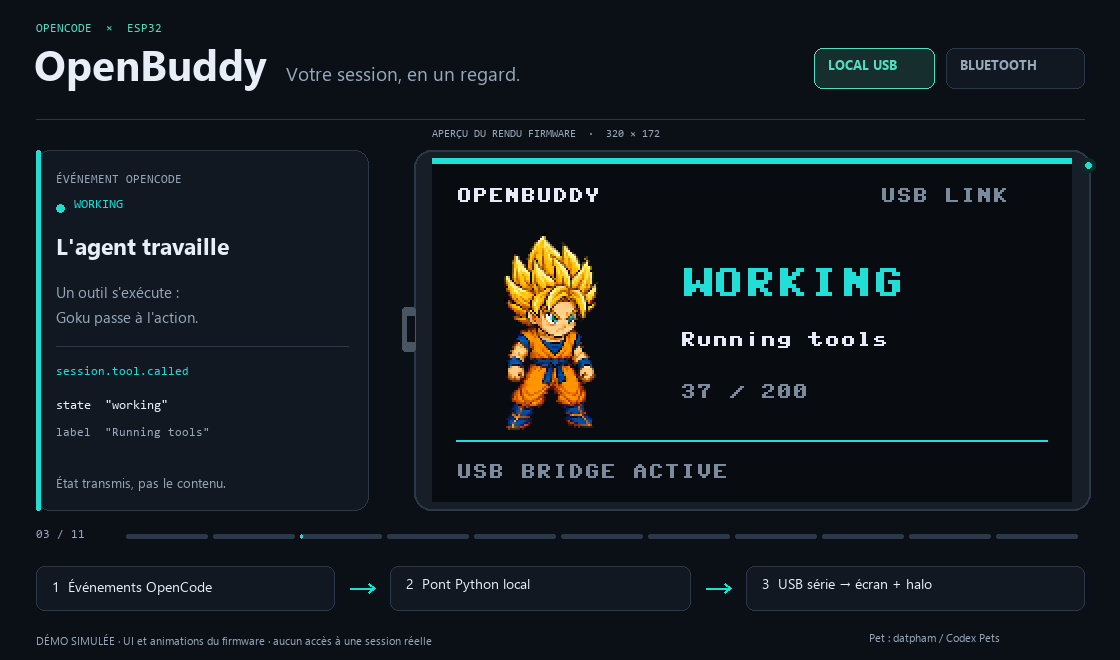
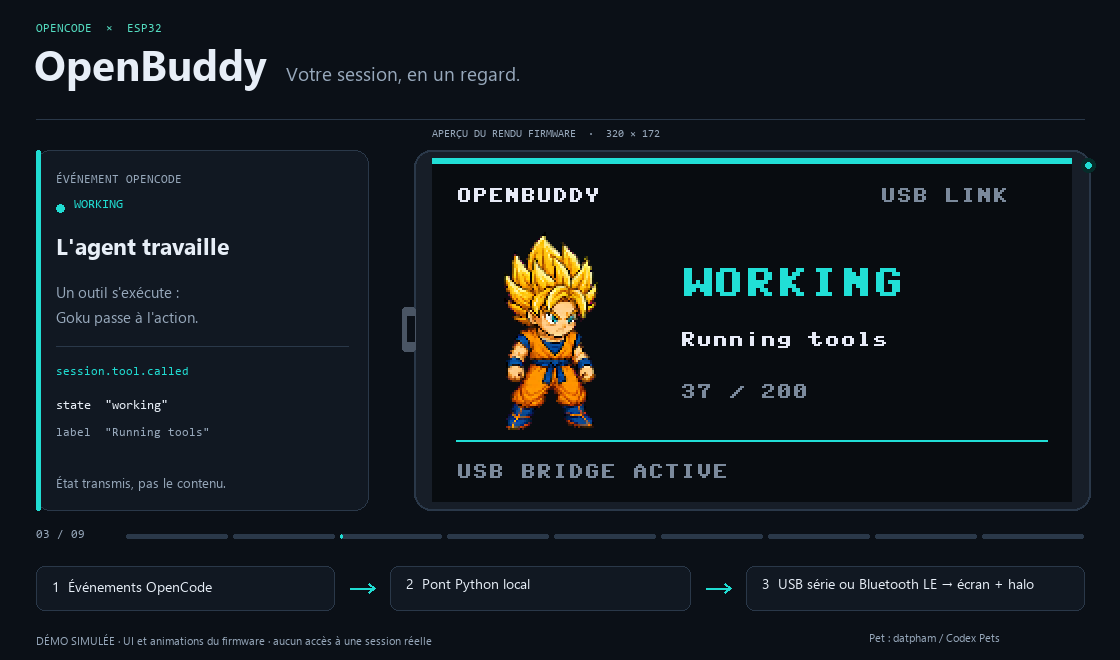
Refresh quota on Done and group thousands; single-pass README demo

Changed region(s): [[0.7188, 0.0606, 0.9375, 0.1515], [0.75, 0.8788, 0.9375, 0.9091]]

diff --git a/tools/build_readme_demo.py b/tools/build_readme_demo.py
@@ -40,33 +40,28 @@ class Scene:
     description: str
     event: str
     label: str
-    mode: str
     duration: int
 
 
 SCENES = (
     Scene("idle", "Prêt à démarrer", "Le compagnon attend l'activité\nd'une session OpenCode.",
-          "Aucune exécution active", "OpenCode ready", "usb", 1600),
+          "Aucune exécution active", "OpenCode ready", 1600),
     Scene("thinking", "L'agent réfléchit", "L'activité de raisonnement\nfait évoluer l'état du compagnon.",
-          "session.reasoning.started", "OpenCode active", "usb", 2600),
+          "session.reasoning.started", "OpenCode active", 2600),
     Scene("working", "L'agent travaille", "Un outil s'exécute :\nGoku passe à l'action.",
-          "session.tool.called", "Running tools", "usb", 2000),
+          "session.tool.called", "Running tools", 2000),
     Scene("permission", "À vous de valider", "Une autorisation est en attente.\nLa validation reste dans OpenCode.",
-          "permission.asked", "1 approval(s) pending", "usb", 2300),
+          "permission.asked", "1 approval(s) pending", 2300),
     Scene("question", "Une réponse attendue", "OpenCode pose une question.\nLe pet et le halo vous alertent.",
-          "form.created", "1 response(s) pending", "usb", 2300),
+          "form.created", "1 response(s) pending", 2300),
     Scene("success", "Réponse terminée", "L'exécution a réussi.\nGoku fête la fin de la tâche.",
-          "session.execution.succeeded", "Response ready", "usb", 1800),
-    Scene("working", "Même synchro, sans fil", "Le transport change,\nles états restent identiques.",
-          "session.tool.called", "Running tools", "ble", 1600),
+          "session.execution.succeeded", "Response ready", 1800),
     Scene("error", "Une erreur survient", "L'exécution a échoué.\nLes détails restent dans OpenCode.",
-          "session.execution.failed", "Execution failed", "ble", 1800),
+          "session.execution.failed", "Execution failed", 1800),
     Scene("retry", "Nouvelle tentative", "OpenCode attend avant de réessayer.\nLe compagnon indique RETRY.",
-          "session.retry.scheduled", "Retry scheduled", "ble", 4200),
-    Scene("success", "C'est reparti !", "La nouvelle exécution a réussi.\nLe même pet, en USB ou Bluetooth.",
-          "session.execution.succeeded", "Response ready", "ble", 1800),
+          "session.retry.scheduled", "Retry scheduled", 4200),
     Scene("offline", "Plus de source active", "Sans heartbeat, retour OFFLINE\naprès 15 s (transition illustrée).",
-          "Expiration du heartbeat", "", "ble", 1800),
+          "Expiration du heartbeat", "", 1800),
 )
 
 
@@ -177,21 +172,12 @@ def text(draw, xy, value, size=16, color=WHITE, bold=False, mono=False):
     draw.text(xy, value, font=font(size, bold, mono), fill=color, anchor="lt")
 
 
-def pill(draw, box, label, active, accent):
-    draw.rounded_rectangle(box, radius=8, fill=(22, 46, 45) if active else PANEL,
-                           outline=accent if active else BORDER, width=1)
-    text(draw, (box[0] + 14, box[1] + 12), label, 13,
-         accent if active else MUTED, bold=True)
-
-
 def compose(screen, scene, index, color, progress=0, total=len(SCENES)):
     image = Image.new("RGB", SIZE, BACKGROUND)
     draw = ImageDraw.Draw(image)
     text(draw, (36, 24), "OPENCODE  ×  ESP32", 12, TEAL, mono=True)
     text(draw, (34, 49), "OpenBuddy", 42, bold=True)
     text(draw, (286, 67), "Votre session, en un regard.", 19, MUTED)
-    pill(draw, (814, 48, 934, 88), "LOCAL USB", scene.mode == "usb", TEAL)
-    pill(draw, (946, 48, 1084, 88), "BLUETOOTH", scene.mode == "ble", TEAL)
     draw.line((36, 119, 1084, 119), fill=BORDER)
 
     draw.rounded_rectangle((36, 150, 368, 510), radius=14, fill=PANEL, outline=BORDER)
@@ -227,7 +213,7 @@ def compose(screen, scene, index, color, progress=0, total=len(SCENES)):
             draw.rounded_rectangle((x, 534, x + max(2, int(width * progress)), 538), radius=2, fill=color)
 
     nodes = ((36, 566, 334, 610), (390, 566, 690, 610), (746, 566, 1084, 610))
-    labels = ("1  Événements OpenCode", "2  Pont Python local", "3  " + ("USB série → écran + halo" if scene.mode == "usb" else "Bluetooth LE → écran + halo"))
+    labels = ("1  Événements OpenCode", "2  Pont Python local", "3  USB série ou Bluetooth LE → écran + halo")
     for box, label in zip(nodes, labels):
         draw.rounded_rectangle(box, radius=8, fill=PANEL, outline=BORDER)
         text(draw, (box[0] + 16, box[1] + 13), label, 14, WHITE)
@@ -265,7 +251,7 @@ def generate(pet_dir, output, poster, scenes=SCENES):
         try:
             # Use one shared palette, trained on every state, to avoid color flicker.
             for index, scene in enumerate(scenes):
-                buddy.state, buddy.label, buddy.kind = scene.state, scene.label, scene.mode
+                buddy.state, buddy.label, buddy.kind = scene.state, scene.label, "usb"
                 buddy.online = lambda _now, state=scene.state: state != "offline"
                 ui.draw(buddy, now)
                 samples.append(compose(display.image, scene, index, ui_module.COLORS[scene.state], 0.5, len(scenes)))
@@ -278,7 +264,7 @@ def generate(pet_dir, output, poster, scenes=SCENES):
             player.clip = None
             now = 0
             for index, scene in enumerate(scenes):
-                buddy.state, buddy.label, buddy.kind = scene.state, scene.label, scene.mode
+                buddy.state, buddy.label, buddy.kind = scene.state, scene.label, "usb"
                 buddy.online = lambda _now, state=scene.state: state != "offline"
                 for elapsed in range(0, scene.duration, STEP_MS):
                     # Preserve the firmware's 20ms update cadence and clip timings.

diff --git a/pc/quota.py b/pc/quota.py
@@ -8,9 +8,14 @@ import shlex
 import shutil
 import subprocess
 import sys
+import time
+
+from c6lcd.buddy_protocol import STATES
 
 MIN_REFRESH_SECONDS = 60
-DEFAULT_REFRESH_SECONDS = 300
+DEFAULT_REFRESH_SECONDS = 600
+DEFAULT_REFRESH_ON = ("success",)
+MIN_FETCH_GAP_SECONDS = 10  # Several state changes in a row share one command run.
 COMMAND_TIMEOUT = 20
 OUTPUT_LIMIT = 65536
 TEXT_LIMIT = 24
@@ -36,14 +41,16 @@ def number(value, field):
     if type(value) not in (int, float):
         raise ValueError("Field is not a number: " + field)
     if value == int(value):
-        return str(int(value))
-    return ("%.1f" % value).rstrip("0").rstrip(".")
+        text = "{:,}".format(int(value))
+    else:
+        text = "{:,.1f}".format(value).rstrip("0").rstrip(".")
+    return text.replace(",", " ")
 
 
 class QuotaConfig:
-    def __init__(self, command, used, limit, label, refresh):
+    def __init__(self, command, used, limit, label, refresh, refresh_on=DEFAULT_REFRESH_ON):
         self.command, self.used, self.limit = command, used, limit
-        self.label, self.refresh = label, refresh
+        self.label, self.refresh, self.refresh_on = label, refresh, tuple(refresh_on)
 
 
 def load_config(path):
@@ -70,7 +77,10 @@ def load_config(path):
     refresh = data.get("refresh_seconds", DEFAULT_REFRESH_SECONDS)
     if type(refresh) not in (int, float) or refresh < MIN_REFRESH_SECONDS:
         raise ValueError("refresh_seconds must be at least %d" % MIN_REFRESH_SECONDS)
-    return QuotaConfig(command, used, limit, label, refresh)
+    refresh_on = data.get("refresh_on", list(DEFAULT_REFRESH_ON))
+    if (not isinstance(refresh_on, list) or not all(item in STATES for item in refresh_on)):
+        raise ValueError("refresh_on must be a list of OpenBuddy states")
+    return QuotaConfig(command, used, limit, label, refresh, refresh_on)
 
 
 def format_quota(output, config):
@@ -99,26 +109,50 @@ def fetch(config):
 class QuotaMonitor:
     """Keeps the last good text; a failing command never disturbs the bridge."""
 
-    def __init__(self, path=None, fetcher=fetch):
+    def __init__(self, path=None, fetcher=fetch, min_gap=MIN_FETCH_GAP_SECONDS):
         self.path = path or config_path()
         self.fetcher = fetcher
+        self.min_gap = min_gap
         self.text = ""
         self.error = None
         self.config = None
+        self.wake = asyncio.Event()
+        self.previous_state = None
+
+    def observe(self, state):
+        """Refresh early when the agent enters one of the configured states."""
+        entered = state is not None and state != self.previous_state
+        self.previous_state = state
+        refresh_on = self.config.refresh_on if self.config is not None else DEFAULT_REFRESH_ON
+        if entered and state in refresh_on:
+            self.wake.set()
+
+    async def refresh(self):
+        """Returns the delay before the next periodic refresh."""
+        delay = DEFAULT_REFRESH_SECONDS
+        try:
+            self.config = await asyncio.to_thread(load_config, self.path)
+            delay = self.config.refresh
+            self.text = await asyncio.to_thread(self.fetcher, self.config)
+            self.error = None
+        except FileNotFoundError:
+            self.text, self.error = "", None  # Quota display is optional.
+        except (OSError, ValueError, KeyError, subprocess.SubprocessError) as error:
+            # json.JSONDecodeError is a ValueError.
+            if self.error != str(error):
+                print("Quota unavailable:", type(error).__name__, "-", error, flush=True)
+            self.error = str(error)
+        return delay
 
     async def run(self):
         while True:
-            delay = DEFAULT_REFRESH_SECONDS
+            self.wake.clear()
+            started = time.monotonic()
+            delay = await self.refresh()
             try:
-                self.config = await asyncio.to_thread(load_config, self.path)
-                delay = self.config.refresh
-                self.text = await asyncio.to_thread(self.fetcher, self.config)
-                self.error = None
-            except FileNotFoundError:
-                self.text, self.error = "", None  # Quota display is optional.
-            except (OSError, ValueError, KeyError, subprocess.SubprocessError) as error:
-                # json.JSONDecodeError is a ValueError.
-                if self.error != str(error):
-                    print("Quota unavailable:", type(error).__name__, "-", error, flush=True)
-                self.error = str(error)
-            await asyncio.sleep(delay)
+                await asyncio.wait_for(self.wake.wait(), delay)
+            except TimeoutError:
+                continue
+            remaining = self.min_gap - (time.monotonic() - started)
+            if remaining > 0:
+                await asyncio.sleep(remaining)

diff --git a/tests/test_quota.py b/tests/test_quota.py
@@ -33,6 +33,14 @@ class QuotaTests(unittest.TestCase):
         self.assertEqual(quota.format_quota(json.dumps(dict(COPILOT, credits_used=37.5)), config), "37.5 / 200")
         self.assertEqual(quota.format_quota(json.dumps(dict(COPILOT, credits_used=12.0)), config), "12 / 200")
 
+    def test_thousands_are_separated_by_a_space(self):
+        config = quota.load_config(write_config(self.root))
+        output = json.dumps(dict(COPILOT, credits_used=10000, entitlement=15000))
+        self.assertEqual(quota.format_quota(output, config), "10 000 / 15 000")
+        output = json.dumps(dict(COPILOT, credits_used=1234.5, entitlement=1000000))
+        self.assertEqual(quota.format_quota(output, config), "1 234.5 / 1 000 000")
+        self.assertEqual(quota.format_quota(json.dumps(dict(COPILOT, credits_used=999)), config), "999 / 200")
+
     def test_label_is_optional_prefix(self):
         config = quota.load_config(write_config(self.root, label="Copilot"))
         self.assertEqual(quota.format_quota(json.dumps(COPILOT), config), "Copilot 0 / 200")
@@ -99,6 +107,68 @@ class QuotaTests(unittest.TestCase):
             await asyncio.gather(task, return_exceptions=True)
 
         asyncio.run(scenario())
+
+    def test_entering_a_configured_state_refreshes_before_the_period(self):
+        async def scenario():
+            path = write_config(self.root)  # 300 s period: only a state change can refresh in time
+            calls = []
+
+            def fetcher(_config):
+                calls.append(1)
+                return "%d / 200" % len(calls)
+
+            monitor = quota.QuotaMonitor(path, fetcher, min_gap=0)
+            task = asyncio.create_task(monitor.run())
+            await asyncio.sleep(0.1)
+            self.assertEqual(len(calls), 1)
+            for state in ("working", "thinking", None, "idle"):
+                monitor.observe(state)
+            await asyncio.sleep(0.1)
+            self.assertEqual(len(calls), 1)
+            monitor.observe("success")
+            monitor.observe("success")  # still the same state: no second refresh
+            await asyncio.sleep(0.1)
+            self.assertEqual((len(calls), monitor.text), (2, "2 / 200"))
+            task.cancel()
+            await asyncio.gather(task, return_exceptions=True)
+
+        asyncio.run(scenario())
+
+    def test_refreshes_closer_than_the_minimum_gap_are_postponed(self):
+        async def scenario():
+            calls = []
+            monitor = quota.QuotaMonitor(write_config(self.root), lambda _config: calls.append(1) or "x", min_gap=0.3)
+            task = asyncio.create_task(monitor.run())
+            await asyncio.sleep(0.1)
+            monitor.observe("success")
+            await asyncio.sleep(0.1)
+            self.assertEqual(len(calls), 1)
+            await asyncio.sleep(0.4)
+            self.assertEqual(len(calls), 2)
+            task.cancel()
+            await asyncio.gather(task, return_exceptions=True)
+
+        asyncio.run(scenario())
+
+    def test_refresh_states_are_configurable_and_validated(self):
+        path = write_config(self.root)
+        self.assertEqual(quota.load_config(path).refresh_on, ("success",))
+        data = json.loads(path.read_text())
+        data["refresh_on"] = ["success", "error"]
+        path.write_text(json.dumps(data))
+        self.assertEqual(quota.load_config(path).refresh_on, ("success", "error"))
+        for value in (["done"], "success", [1]):
+            data["refresh_on"] = value
+            path.write_text(json.dumps(data))
+            with self.subTest(value=value), self.assertRaises(ValueError):
+                quota.load_config(path)
+
+    def test_default_period_is_ten_minutes(self):
+        path = write_config(self.root)
+        data = json.loads(path.read_text())
+        del data["refresh_seconds"]
+        path.write_text(json.dumps(data))
+        self.assertEqual(quota.load_config(path).refresh, 600)
 
     def test_missing_configuration_is_silent_and_disables_the_display(self):
         async def scenario():

diff --git a/tests/test_readme_demo.py b/tests/test_readme_demo.py
@@ -29,9 +29,10 @@ class DemoTests(unittest.TestCase):
         self.assertEqual(display.image.getpixel((3, 5)), (255, 255, 255))
         self.assertEqual(display.image.getpixel((0, 0)), (0, 0, 0))
 
-    def test_storyboard_covers_all_states_and_both_transports(self):
-        self.assertEqual({scene.state for scene in SCENES}, set(STATES) | {"offline"})
-        self.assertEqual({scene.mode for scene in SCENES}, {"usb", "ble"})
+    def test_storyboard_shows_each_screen_exactly_once(self):
+        states = [scene.state for scene in SCENES]
+        self.assertEqual(set(states), set(STATES) | {"offline"})
+        self.assertEqual(len(states), len(set(states)))
         self.assertTrue(all(scene.duration % 100 == 0 for scene in SCENES))
 
     def test_missing_pack_is_not_silently_replaced_by_a_fake_pet(self):
@@ -54,8 +55,8 @@ class DemoTests(unittest.TestCase):
                                         "frame_ms": 100, "bytes": 16}},
             }
             (pet / "manifest.json").write_text(json.dumps(manifest), encoding="utf-8")
-            scenes = (Scene("idle", "Ready", "A test", "idle", "OpenCode ready", "usb", 300),
-                      Scene("question", "Question", "A test", "form.created", "Waiting", "ble", 300))
+            scenes = (Scene("idle", "Ready", "A test", "idle", "OpenCode ready", 300),
+                      Scene("question", "Question", "A test", "form.created", "Waiting", 300))
             gif, poster = root / "demo.gif", root / "poster.png"
             generate(pet, gif, poster, scenes=scenes)
             with Image.open(gif) as animation:

diff --git a/pc/opencode.py b/pc/opencode.py
@@ -240,6 +240,7 @@ class Bridge:
             view = self.registry.current()
             self.notifier.observe(view["state"] if view is not None else None)
             self.desktop_notifier.observe(view["state"] if view is not None else None)
+            self.quota.observe(view["state"] if view is not None else None)
             await asyncio.sleep(0.25)
 
     async def ble_worker(self):

diff --git a/AGENTS.md b/AGENTS.md
@@ -24,7 +24,7 @@ Lire d'abord `docs/hardware.md` (matériel, brochage, pièges), `docs/opencode-e
 - `pc/opencode.py` : pont événements → carte, démarrage `python -m pc.opencode`, diagnostic/arrêt avec `status`/`stop`.
 - Mode USB : `python -m pc.opencode --serial auto` (ou un port explicite), diagnostic `python -m pc.buddy --serial auto status`. Un seul outil sur le port série, DTR/RTS bas. Arrêter le pont avant `pc.deploy`, `pc.pet` ou `mpremote`.
 - `integration/openbuddy/dist/` : plugin v2 autonome généré, hors autochargement ; sources dans `integration/openbuddy/src/`, métadonnées/licence dans `assets/`, build `npm --prefix integration/openbuddy run build`. Ne pas éditer `index.js` à la main. Installation globale avec `python -m pc.install_plugin`.
-- `pc/quota.py` : texte `utilisé / limite` du fournisseur (ex. `0 / 200`) via une commande configurée dans `%APPDATA%\openbuddy\quota.json`, envoyé au firmware dans le champ optionnel `info` de la commande `state` et affiché à la place de `PET / MICROSD` ; `--no-quota` ou `--quota-config`. Les tests ne doivent jamais lancer la vraie commande (voir `setUpModule` de `tests/test_opencode_bridge.py`).
+- `pc/quota.py` : texte `utilisé / limite` du fournisseur (ex. `0 / 200`) via une commande configurée dans `%APPDATA%\openbuddy\quota.json`, envoyé au firmware dans le champ optionnel `info` de la commande `state` et affiché à la place de `PET / MICROSD` ; rafraîchi toutes les 600 s et à l'entrée dans les états de `refresh_on` (`success` par défaut, 10 s minimum entre deux appels) ; `--no-quota` ou `--quota-config`. Les tests ne doivent jamais lancer la vraie commande (voir `setUpModule` de `tests/test_opencode_bridge.py`).
 - `pc/notifications.py` : sons système Windows, option `--mute`. `pc/toasts.py` : notifications Windows WinRT natives, texte générique, toast silencieux, option `--no-notifications`, aucun bouton de validation.
 - `pc/install_plugin.py` : installateur du plugin (global par défaut, projet en option), sauvegarde avant `--replace`, aucun changement des configs JSON.
 - `tools/package_workplace.py` : ZIP de transfert par liste blanche, wheels hors ligne ; README du kit dans `distribution/workplace/README.md`, variante USB avec `--variant usb` et `README-usb.md`.

diff --git a/docs/opencode-events.md b/docs/opencode-events.md
@@ -121,7 +121,8 @@ modifiable avec `--quota-config FICHIER`. `--no-quota` désactive la commande.
 ```json
 {
   "provider": "github-copilot",
-  "refresh_seconds": 300,
+  "refresh_seconds": 600,
+  "refresh_on": ["success"],
   "providers": {
     "github-copilot": {
       "command": ["gh", "api", "copilot_internal/user", "--jq", ".quota_snapshots.premium_interactions"],
@@ -137,10 +138,17 @@ modifiable avec `--quota-config FICHIER`. `--no-quota` désactive la commande.
 - `command` est une liste, ou une chaîne découpée comme dans un shell POSIX. Elle
   est lancée **sans shell**, avec un délai de 20 s et une sortie limitée à 64 Ko.
 - `used` et `limit` désignent des champs numériques de l'objet JSON renvoyé (chemin
-  pointé accepté, par exemple `a.b`). `label` optionnel est ajouté devant le texte.
-- `refresh_seconds` : 60 au minimum, 300 par défaut. Le fichier est relu à chaque
-  rafraîchissement. En cas d'échec, le dernier texte valide est conservé et l'erreur
-  est visible dans `python -m pc.opencode status` (`quota_error`).
+  pointé accepté, par exemple `a.b`). Les milliers sont séparés par une espace
+  (`10 000 / 15 000`). `label` optionnel est ajouté devant le texte.
+- `refresh_seconds` : période de rafraîchissement, 60 au minimum, 600 par défaut.
+- `refresh_on` : états qui déclenchent en plus un rafraîchissement immédiat quand
+  l'agent **y entre** (`["success"]` par défaut, soit la fin de réponse ; on peut y
+  ajouter `error`, etc.). Deux déclenchements rapprochés partagent un seul appel :
+  il y a au moins 10 s entre deux exécutions de la commande.
+- Le fichier est relu à chaque rafraîchissement. En cas d'échec, le dernier texte
+  valide est conservé et l'erreur est visible dans `python -m pc.opencode status`
+  (`quota_error`). Le compteur du fournisseur peut avoir quelques secondes de retard
+  sur la fin de réponse.
 
 La commande `gh` utilise `GITHUB_TOKEN` en priorité : un jeton invalide dans
 l'environnement du pont fait échouer la requête (HTTP 401) même si `gh auth login` est valide.
